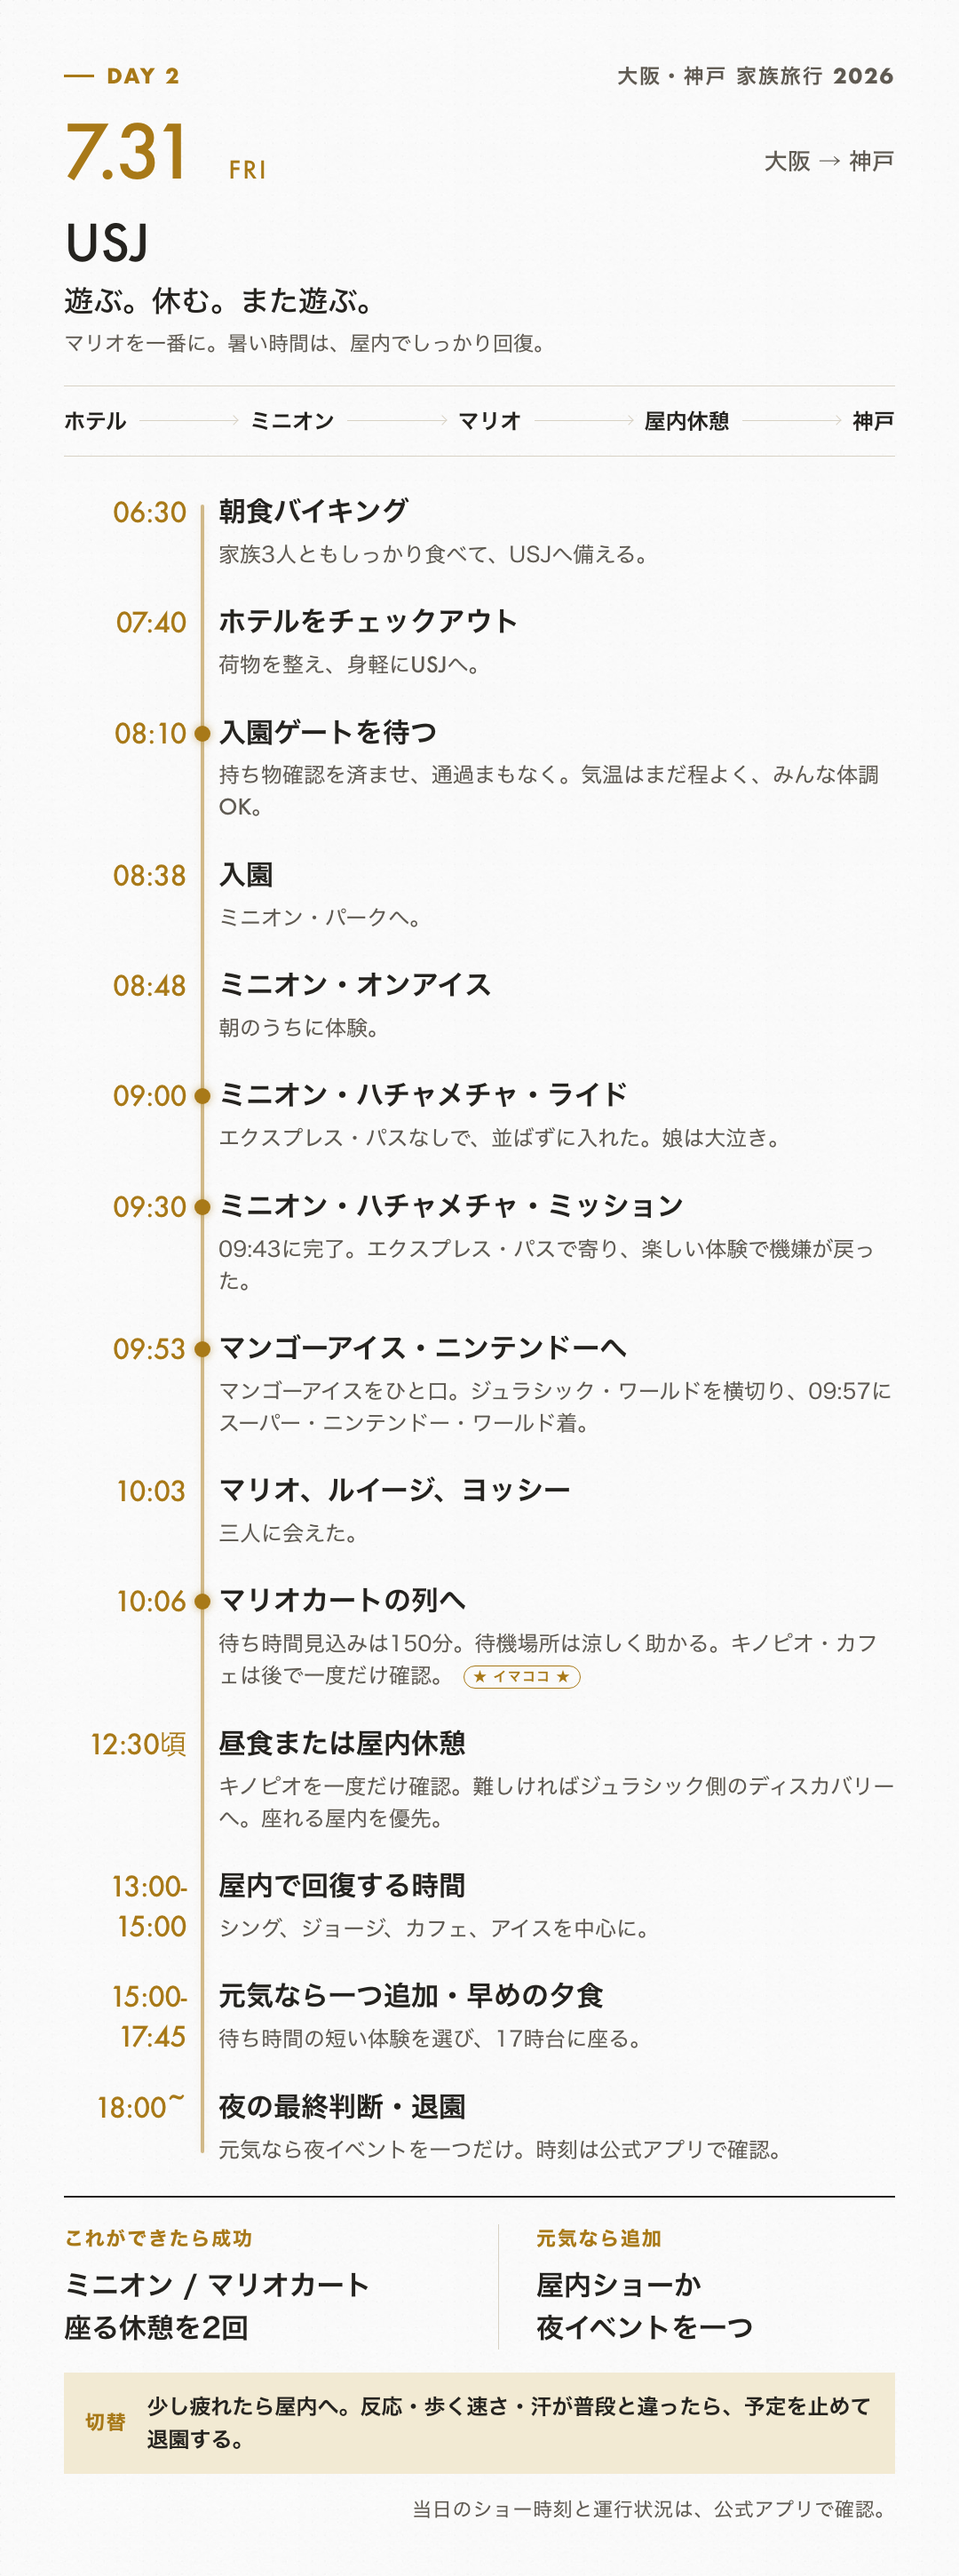
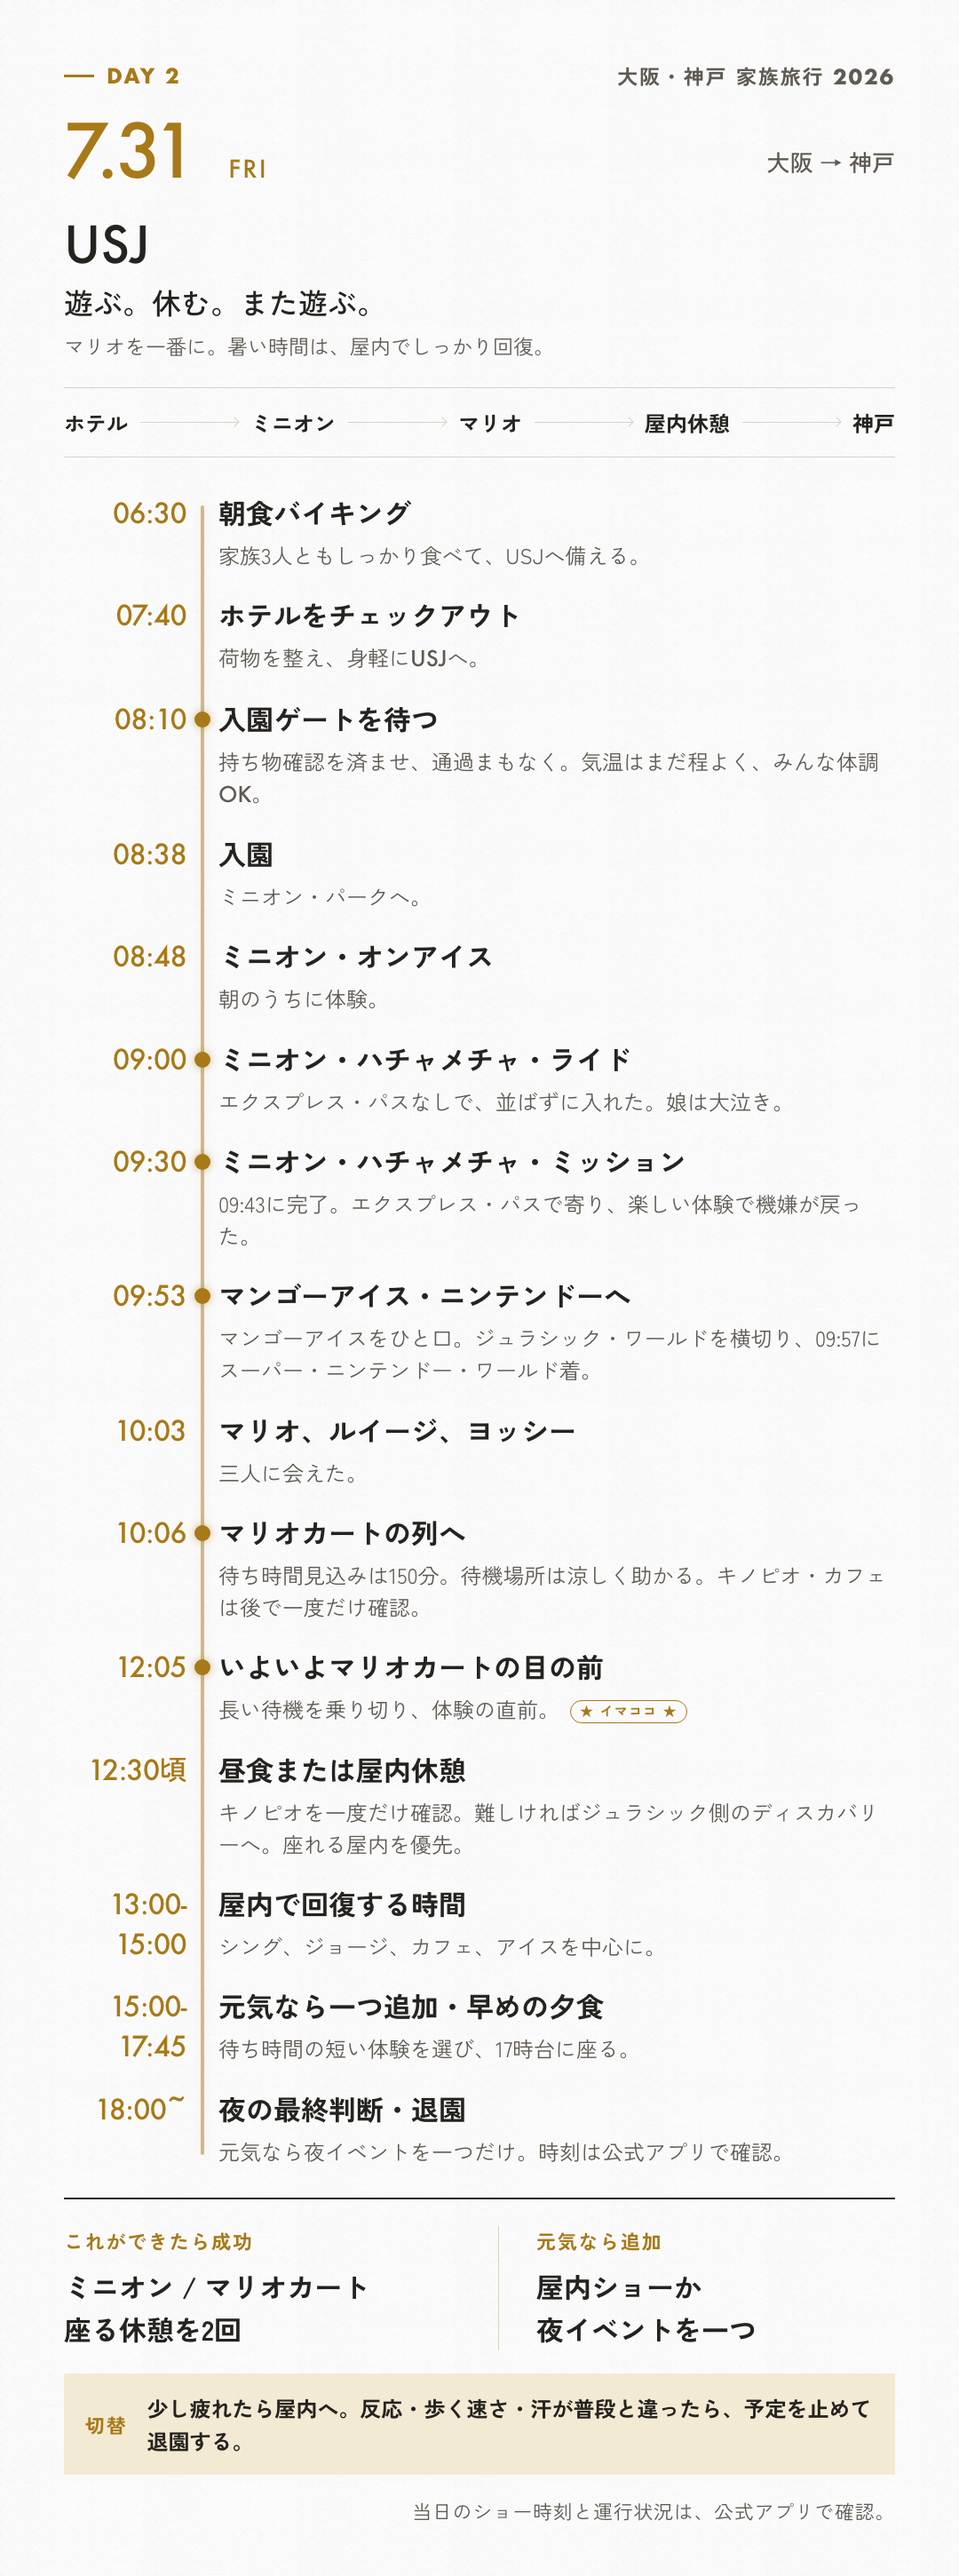
Update Mario Kart live status

diff --git a/docs/usj-guide.html b/docs/usj-guide.html
@@ -53,8 +53,12 @@
               <div><h3>スーパー・ニンテンドー・ワールド</h3><p>マリオ、ルイージ、ヨッシーに会い、10:06にマリオカートの列へ。</p></div>
             </div>
             <div class="timeline__item">
-              <time>現在</time>
-              <div><h3>マリオカート待機列</h3><p>待ち時間見込みは150分。待機場所は涼しい。<span class="now-marker">★ イマココ ★</span></p></div>
+              <time>10:06</time>
+              <div><h3>マリオカート待機列へ</h3><p>待ち時間見込みは150分。待機場所は涼しく、第一希望を守れた。</p></div>
+            </div>
+            <div class="timeline__item">
+              <time>12:05</time>
+              <div><h3>いよいよ目の前</h3><p>長い待機を乗り切り、マリオカート体験の直前。<span class="now-marker">★ イマココ ★</span></p></div>
             </div>
           </div>
         </section>
@@ -101,7 +105,7 @@
             </div>
             <div>
               <h3>2. マリオカート</h3>
-              <p>10:06から待機列へ。待ち時間見込みは150分だが、涼しい列で第一希望を守る。</p>
+              <p>10:06から待機列へ。12:05にはいよいよ目の前まで進んだ。乗り終えたら食事と水分へ切り替える。</p>
             </div>
             <div>
               <h3>3. 食事と屋内回復</h3>

diff --git a/docs/trip-plan.html b/docs/trip-plan.html
@@ -413,7 +413,7 @@
             </div>
             <div>
               <h3>現在</h3>
-              <p><span class="now-marker">★ イマココ ★</span> 10:06からマリオカート待機列。涼しい列で、第一希望を守る。</p>
+              <p><span class="now-marker">★ イマココ ★</span> 12:05、マリオカートはいよいよ目の前。長い待機を涼しい列で乗り切った。</p>
             </div>
             <div>
               <h3>この後</h3>
